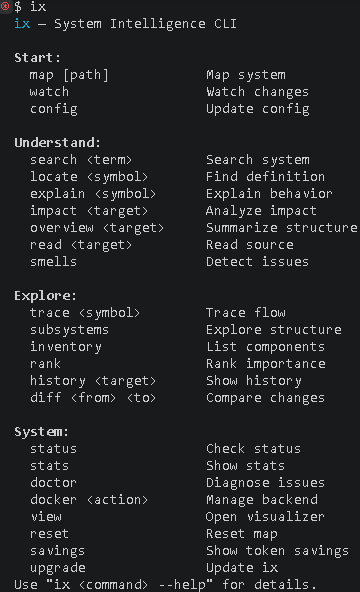
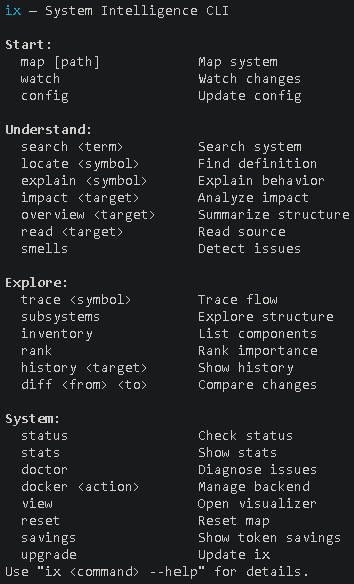
docs(readme): cleaner help screenshot + "just type ix" prompt, smaller (#263)
- Swap in the prompt-less ix help screenshot
- Add a line telling users to just type `ix`
- Shrink the image (70% -> 42%) so it fits a portrait screenshot

Pull request: docs(readme): cleaner help screenshot + smaller, with a 'type ix' prompt
Follow-up to #262:
- Swaps in the prompt-less `ix help` screenshot.
- Adds a line above it telling users to just type `ix`.
- Shrinks the image from 70% to 42% (it's a portrait screenshot).

🤖 Generated with [Claude Code](https://claude.com/claude-code)

diff --git a/README.md b/README.md
@@ -128,8 +128,10 @@ YAML, JSON, TOML, SQL, Dockerfile, Markdown
 
 ## Quick Start
 
+Just type `ix` to see everything it can do:
+
 <p align="center">
-  <img src="./assets/help.png" width="70%" />
+  <img src="./assets/help.png" width="42%" />
 </p>
 
 Map your system: